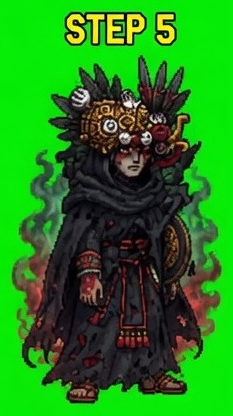
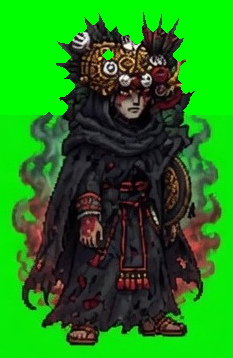
Quita los rotulos STEP de las tiras de metamorfosis (umbral medido, no estimado)
Dos intentos fallaron por adivinar el umbral. Medido sobre las tiras reales: el rotulo tiene g-b mediana 99 y b mediana 13; la piel, g-b mediana 9 y b mediana 171. g-b los separa por un factor de 10.

El primer filtro exigia r>180 y por eso dejaba los rotulos puestos: el texto lleva contorno oscuro y su r va de 0 a 253 (mediana 31). El segundo fallo fue la BANDA: los rotulos estan a y=156..213 de una tira de 768 px, o sea al 20-28 por ciento, justo fuera del 22 por ciento que se aplicaba. Ampliada al 42 por ciento, que ahora es seguro porque el color ya distingue rotulo de piel.

Resultado verificado a ojo: rotulos fuera, caras intactas, las 9 poses en el orden que confirmo el dueno.

diff --git a/PolitecnicoOpenWorld/tools/sf_split_strip.py b/PolitecnicoOpenWorld/tools/sf_split_strip.py
@@ -31,16 +31,20 @@ ROOT = os.path.dirname(os.path.dirname(os.path.abspath(__file__)))
 OUT_BASE = os.path.join(ROOT, "tools", "_para_corregir")
 
 
-def sin_rotulos(a: np.ndarray, banda: float = 0.22) -> np.ndarray:
+def sin_rotulos(a: np.ndarray, banda: float = 0.42) -> np.ndarray:
     """Repinta de croma el texto amarillo del generador.
 
-    ⚠ SOLO en la banda superior. El primer intento lo aplicaba a toda la imagen y comia
-    la PIEL DE LA CARA: un tono de piel claro cumple (r alto, g medio-alto, b bajo) igual
-    que el amarillo del rotulo. Ademas se exige que el amarillo sea SATURADO (b muy por
-    debajo de g), cosa que la piel no cumple.
+    ⚠ SOLO en la banda superior. Aplicarlo a toda la imagen se comia la PIEL DE LA CARA.
+
+    Umbral MEDIDO sobre las tiras reales, no estimado:
+        rotulo -> g-b mediana 99, b mediana  13
+        piel   -> g-b mediana  9, b mediana 171
+    `g-b` los separa por un factor de 10. NO se puede exigir `r` alto: el rotulo lleva
+    contorno oscuro y su r va de 0 a 253 (mediana 31), que fue justo por lo que el primer
+    intento dejaba los rotulos puestos.
     """
     r, g, b = a[..., 0].astype(int), a[..., 1].astype(int), a[..., 2].astype(int)
-    amarillo = (r > 180) & (g > 165) & (b < 90) & (g - b > 110) & (np.abs(r - g) < 60)
+    amarillo = (g - b > 60) & (b < 120) & (g > 90)
     alto = np.zeros(amarillo.shape, dtype=bool)
     alto[: int(amarillo.shape[0] * banda)] = True
     amarillo &= alto
